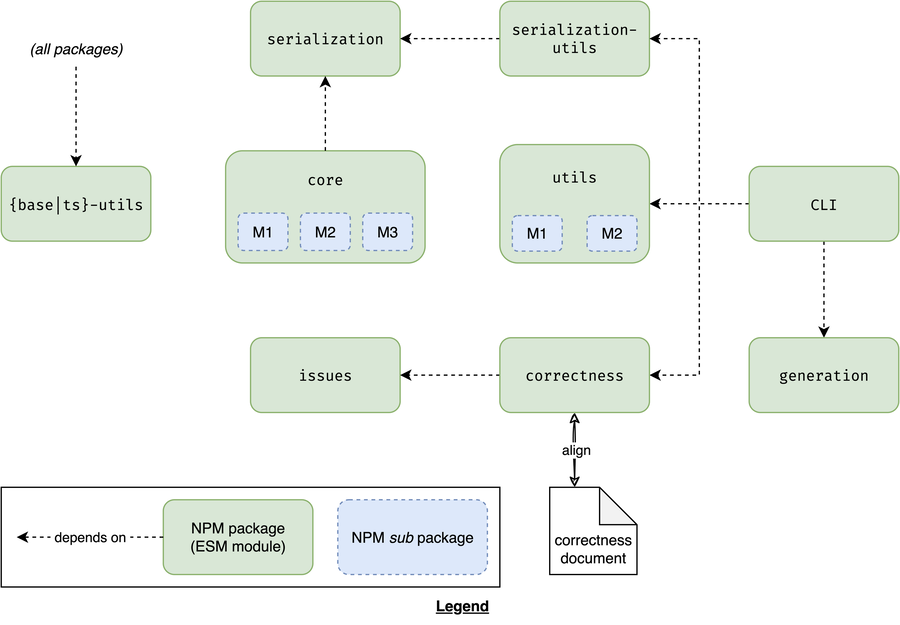
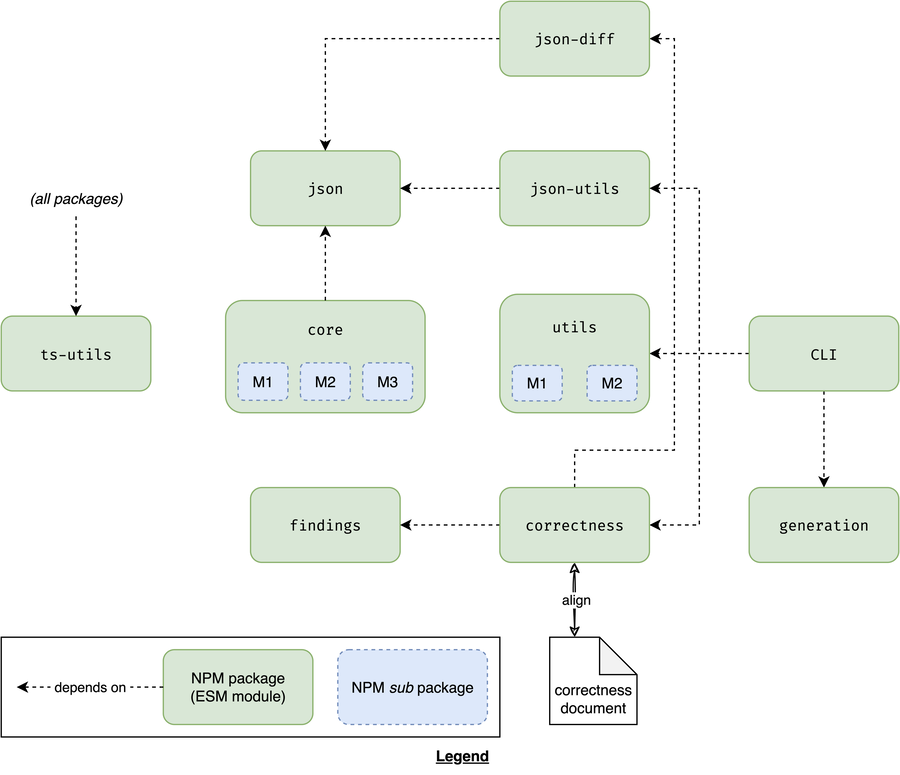
update roadmap document after last round of work

diff --git a/documentation/ROADMAP-v1.md b/documentation/ROADMAP-v1.md
@@ -11,20 +11,12 @@
 
 ![The packages, including dependencies](./packages.svg)
 
-* `{base|ts}-utils`: LionWeb-agnostic utility/helper functionality, specifically for working with arrays and maps/objects.
+* `ts-utils`: LionWeb-agnostic utility/helper functionality, specifically for working with arrays and maps/objects.
     Don't depend on Node.js here — specifically: don't use `node:fs`!
-* `serialization`: all serialization types (prefixed with `LionWebJson`), and some utility functionality like comparing meta-pointers.
-
->  *Jos: I think we should call this `json` instead of 'serialization'?
-   These Json objects are still JavaScript.
-   The actual serialization functionality is in other packages.*
-
->  *Jos: And then the next package (serialization-utils) should be called `json-utils`.*
-
-
-* `serialization-utils`: utilities that deal exclusively with types from the `serialization` package.
-    Sub packages:
-    * diffing (moved from current `validation`)
+* `json`: all serialization types (prefixed with `LionWebJson`), and some utility functionality like comparing meta-pointers.
+* `json-diff`: diffing (moved from current `validation`) on top of types from the `json` package.
+* `json-utils`: utilities that deal exclusively with types from the `json` package.
+    Examples:
     * textualization — i.e., a textual syntax for serialization chunks.
         Allow optional _name provider_ to replace keys/ids with names coming from an M2.
 * `core`: the core types for models.
@@ -38,10 +30,7 @@
     * `M2`: textualization of an M2, infer language from a serialization chunk
 > *Jos: alternatively the `lionweb-json-utils` (now called `serialization-utils`) could also be moved here.
        and renamed to `lionweb-json`*
-* `issues`: types and utilities (e.g., `JsonPath` moved from the current `validation` package) for issues.
-
-> *Jos: Maybe call this `findings` to align with the unfinished language we were defining.*
-  
+* `findings`: types and utilities (e.g., `JsonPath` moved from the current `validation` package) for issues.
 * `correctness`: validation of serialization chunks, either M2-agnostic or M2-aware — aligned with the correctness document.
 > *Maybe posit that this package is developed, **and unit tested** concurrently with the `serialization` and `core` packages?*
 * `generation`: generation of TS code, diagrams, etc. based on language definitions
@@ -57,7 +46,7 @@
 * Rename `InstantiationFacade` &rarr; `Factory`
   * And `ExtractionFacade` &rarr; `Reflector`?
 > *Jos: And make sure there are cookbooks for both them, as I (JW) find them hard to understand and use.
-    preferrably simplify them (don't know how yet)*
+    Preferably simplify them (don't know how yet)*
 >> *Meinte: I was thinking that maybe we'd have `Factory` (for instantiating instances), `Writer` (for setting/writing values on instances), and `Reader` (for reading values on instances).*
 
 * Give deserialization a better API:
@@ -71,7 +60,7 @@
     * We can deal with broken models, so a “small” problem in the serialization should not prevent the deserialization as a whole.
       (The GPL types that the model is deserialized into might have a different opinion about it, but that's its problem.)
 
-> *Jos: But there must be a notification os some kind that the model was repaired.*
+> *Jos: But there must be a notification of some kind that the model was repaired.*
 
    * We should uncover _all_ problems during deserialization, not just the first one and then quit.
    * I (=MB) find it useful to do things in an FP-style, so effectively everything should be a `flatMap` of-sorts.
@@ -80,7 +69,7 @@
 > *Jos: I (JW) find that too much FP-style often makes things harder to read and understand.
 > I find readability more important than being concise, so I agree with the final criterion :-).
        We need to find the right balance here*
-      
+
   * Split readable and writable parts of `Node` interface — i.e., `Reader`, and `Writer`, in addition to `Factory` (see also above).
     * Provide factory getter and `setFeatureValue` that knows about moving children between parents in writable part.
 
